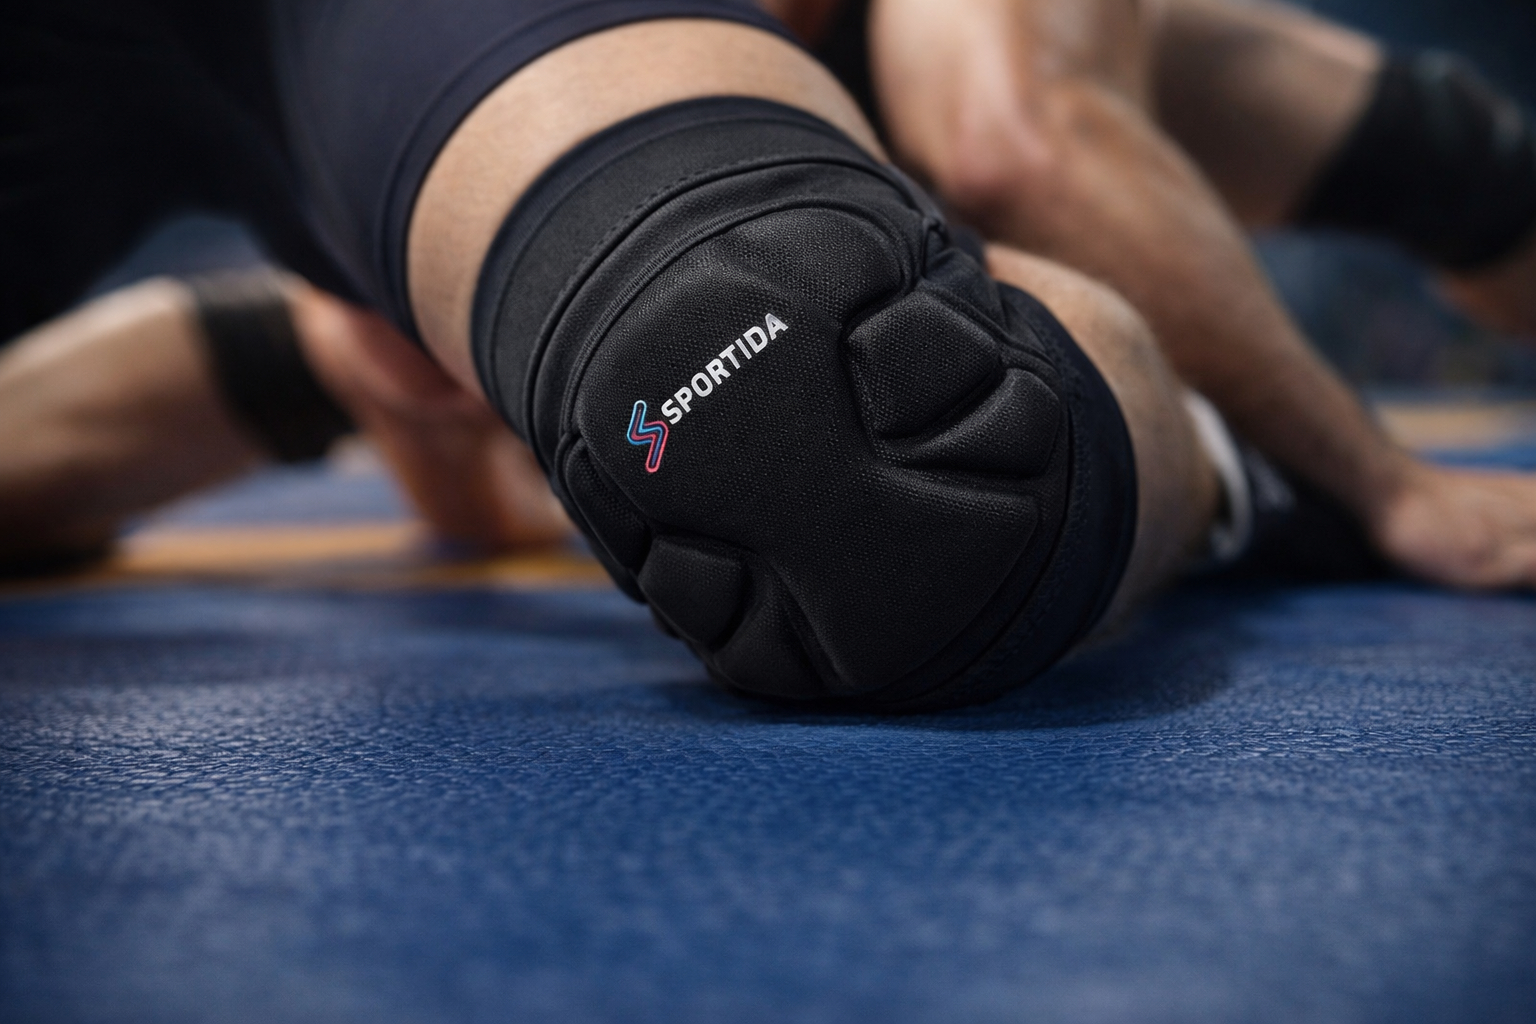
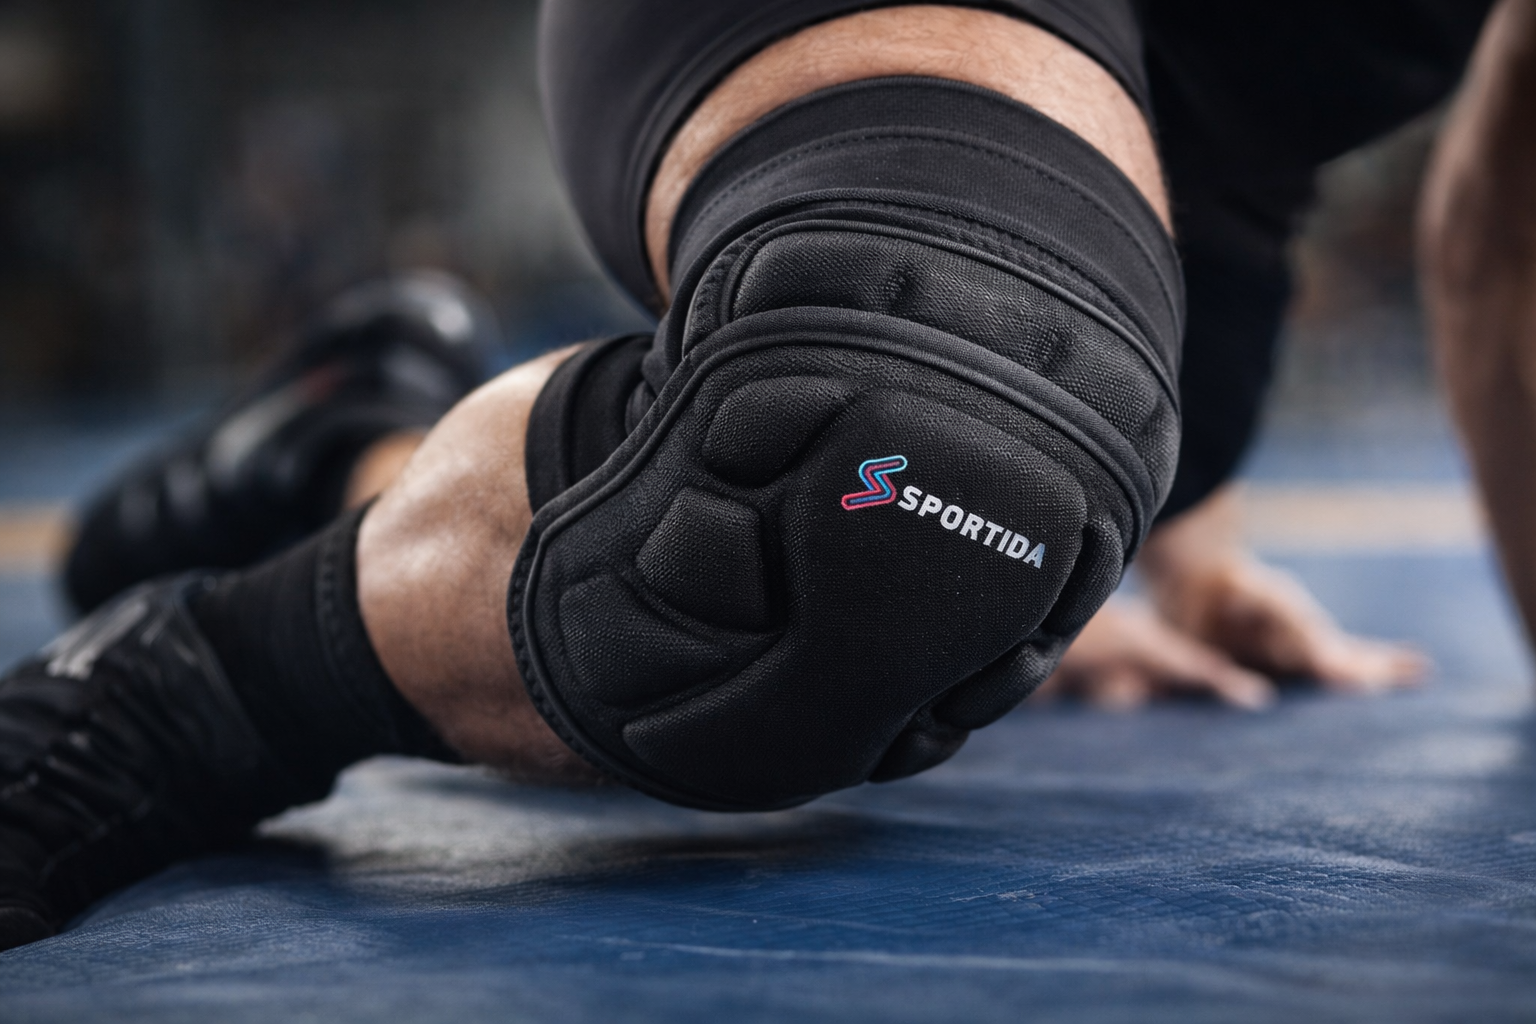
Add sliding sports article page and update related image

diff --git a/knee-pads-for-sliding-sports/index.html b/knee-pads-for-sliding-sports/index.html
@@ -1,0 +1,280 @@
+<!doctype html>
+<html lang="en-US">
+  <head>
+    <meta charset="UTF-8" />
+    <meta name="viewport" content="width=device-width, initial-scale=1.0" />
+    <meta name="geo.region" content="US" />
+    <meta name="geo.placename" content="United States" />
+    <meta name="language" content="English" />
+    <meta http-equiv="content-language" content="en-US" />
+    <title>Knee Pads for Sliding Sports | Skateboarding & Wrestling Protection | SPORTIDA</title>
+    <meta
+      name="description"
+      content="Sliding sports like skateboarding and wrestling expose the knees to repeated impact and friction. Learn why knee protection matters and how modern knee pads reduce injury risk."
+    />
+    <meta
+      name="keywords"
+      content="knee pads for sliding sports, skateboarding knee pads, wrestling knee pads, sliding sports knee protection, impact knee pads, Sportida S6764"
+    />
+    <link rel="icon" type="image/png" href="https://sportida.store/s6764/images/Logo-Sportida.co.png" />
+    <link rel="preconnect" href="https://fonts.googleapis.com" />
+    <link rel="preconnect" href="https://fonts.gstatic.com" crossorigin />
+    <link href="https://fonts.googleapis.com/css2?family=Montserrat:wght@400;500;600;700;800&display=swap" rel="stylesheet" />
+    <meta property="og:title" content="Knee Pads for Sliding Sports | Skateboarding & Wrestling Protection | SPORTIDA" />
+    <meta
+      property="og:description"
+      content="Sliding sports like skateboarding and wrestling expose the knees to repeated impact and friction. Learn why knee protection matters and how modern knee pads reduce injury risk."
+    />
+    <meta property="og:image" content="https://sportida.store/s6764/knee-pads-for-sliding-sports/images/skateboarder-sliding-knee-pad-impact-skatepark.png" />
+    <meta property="og:url" content="https://sportida.store/s6764/knee-pads-for-sliding-sports/" />
+    <meta property="og:type" content="article" />
+    <script async src="https://www.googletagmanager.com/gtag/js?id=G-SL5NGC9YRV"></script>
+    <script>
+      window.dataLayer = window.dataLayer || [];
+      function gtag() {
+        dataLayer.push(arguments);
+      }
+      gtag("js", new Date());
+      gtag("config", "G-SL5NGC9YRV");
+    </script>
+    <meta name="twitter:card" content="summary_large_image" />
+    <meta name="twitter:title" content="Knee Pads for Sliding Sports | Skateboarding & Wrestling Protection | SPORTIDA" />
+    <meta
+      name="twitter:description"
+      content="Sliding sports like skateboarding and wrestling expose the knees to repeated impact and friction. Learn why knee protection matters and how modern knee pads reduce injury risk."
+    />
+    <meta name="twitter:image" content="https://sportida.store/s6764/knee-pads-for-sliding-sports/images/skateboarder-sliding-knee-pad-impact-skatepark.png" />
+    <link rel="stylesheet" href="../best-knee-pads-for-goalkeepers/css/styles.css" />
+    <link rel="canonical" href="https://sportida.store/s6764/knee-pads-for-sliding-sports/" />
+    <link rel="alternate" hreflang="en-us" href="https://sportida.store/s6764/knee-pads-for-sliding-sports/" />
+    <link rel="alternate" hreflang="x-default" href="https://sportida.store/s6764/knee-pads-for-sliding-sports/" />
+    <script type="application/ld+json">
+      {
+        "@context": "https://schema.org",
+        "@type": "FAQPage",
+        "mainEntity": [
+          {
+            "@type": "Question",
+            "name": "Are knee pads necessary for skateboarding?",
+            "acceptedAnswer": {
+              "@type": "Answer",
+              "text": "Knee pads are strongly recommended for skateboarding because falls and slides on concrete can create direct impact and abrasion. Proper knee protection helps reduce injury risk and improves confidence during progression."
+            }
+          },
+          {
+            "@type": "Question",
+            "name": "Why do wrestlers wear knee pads?",
+            "acceptedAnswer": {
+              "@type": "Answer",
+              "text": "Wrestlers wear knee pads to reduce stress from repeated kneeling, shooting, and mat contact. They help protect the knee from friction and impact while preserving freedom of movement."
+            }
+          },
+          {
+            "@type": "Question",
+            "name": "What sports require knee protection?",
+            "acceptedAnswer": {
+              "@type": "Answer",
+              "text": "Sports with frequent sliding, contact, or hard-surface falls often require knee protection, including skateboarding, wrestling, grappling, volleyball, and goalkeeper training."
+            }
+          },
+          {
+            "@type": "Question",
+            "name": "Do knee pads prevent sliding injuries?",
+            "acceptedAnswer": {
+              "@type": "Answer",
+              "text": "Knee pads can significantly reduce the severity of sliding injuries by absorbing impact and lowering friction against the surface. They are an important part of preventive training gear."
+            }
+          },
+          {
+            "@type": "Question",
+            "name": "What type of knee pads are best for sliding sports?",
+            "acceptedAnswer": {
+              "@type": "Answer",
+              "text": "The best knee pads for sliding sports combine flexible segmented EVA padding, breathable compression support, and a secure fit that stays in place during rapid movement."
+            }
+          }
+        ]
+      }
+    </script>
+    <script type="application/ld+json">
+      {
+        "@context": "https://schema.org",
+        "@type": "Article",
+        "headline": "Knee Pads for Sliding Sports | Skateboarding, Wrestling & Impact Protection",
+        "description": "Sliding sports like skateboarding and wrestling expose the knees to repeated impact and friction. Learn why knee protection matters and how modern knee pads reduce injury risk.",
+        "image": "https://sportida.store/s6764/images/goalkeeper-diving-save-protection.png",
+        "author": {
+          "@type": "Organization",
+          "name": "SPORTIDA"
+        },
+        "publisher": {
+          "@type": "Organization",
+          "name": "SPORTIDA",
+          "logo": {
+            "@type": "ImageObject",
+            "url": "https://sportida.store/s6764/images/Logo-Sportida.co.png"
+          }
+        },
+        "mainEntityOfPage": {
+          "@type": "WebPage",
+          "@id": "https://sportida.store/s6764/knee-pads-for-sliding-sports/"
+        },
+        "datePublished": "2026-03-16",
+        "dateModified": "2026-03-16"
+      }
+    </script>
+    <style>
+      .content-image {
+        width: 100%;
+        height: auto;
+        border-radius: 16px;
+        display: block;
+      }
+    </style>
+  </head>
+  <body>
+    <header class="hero" role="banner" aria-label="Sliding Sports Knee Protection Hero Section">
+      <img
+        class="hero__bg"
+        src="images/skateboarder-sliding-knee-pad-impact-skatepark.png"
+        alt="skateboarder sliding on concrete wearing protective knee pads"
+        loading="eager"
+        fetchpriority="high"
+        width="1920"
+        height="1080"
+      />
+      <div class="hero__overlay"></div>
+      <div class="container hero__content">
+        <h1>Why Sliding Sports Require Proper Knee Protection</h1>
+        <p class="hero__subtitle">
+          Sliding sports like skateboarding, wrestling, and grappling expose the knees to constant friction and impact. Understanding how knee pads protect athletes can help prevent injuries and extend training sessions.
+        </p>
+        <a class="btn" href="https://sportida.store/s6764/" aria-label="View Sportida S6764 Knee Pads">View Sportida S6764 Knee Pads</a>
+      </div>
+    </header>
+
+    <main>
+      <section class="section section--intro" aria-labelledby="impact-risk-title">
+        <div class="container split-grid">
+          <figure class="media-card">
+            <img
+              src="images/knee-pad-ground-impact-protection-detail.png"
+              alt="knee pad absorbing impact during skateboard fall on concrete"
+              loading="lazy"
+              width="1200"
+              height="800"
+              class="content-image"
+            />
+          </figure>
+          <article class="content-card">
+            <h2 id="impact-risk-title">Hard Surfaces and Impact Risk</h2>
+            <p>
+              Sports like skateboarding, wrestling, and high-repetition training drills place the knees in direct contact with hard surfaces. Concrete parks, gym floors, and wrestling mats can all create repeated impact points that accumulate stress over time.
+            </p>
+            <p>
+              Even when a single impact seems minor, repeated contact across sessions can lead to joint soreness and reduced training quality. Reliable knee protection helps absorb force and supports consistent performance in high-contact practice.
+            </p>
+          </article>
+        </div>
+      </section>
+
+      <section class="section section--soft" aria-labelledby="friction-title">
+        <div class="container narrow">
+          <h2 id="friction-title">Sliding Friction and Skin Damage</h2>
+          <p>
+            Sliding movement is part of many disciplines, from skatepark transitions to wrestling scrambles. When knees travel across abrasive surfaces, friction can quickly irritate skin and produce abrasion patterns similar to turf-burn style contact injuries.
+          </p>
+          <p>
+            Repetitive sliding friction does not only affect skin comfort. It can also disrupt technique and confidence, especially during longer sessions. Proper knee pads create a protective layer that reduces direct surface friction and helps athletes stay focused.
+          </p>
+        </div>
+      </section>
+
+      <section class="section" aria-labelledby="mobility-protection-title">
+        <div class="container split-grid split-grid--reverse">
+          <article class="content-card">
+            <h2 id="mobility-protection-title">Mobility vs Protection in Modern Knee Pads</h2>
+            <p>
+              Effective knee protection is not just about adding thick padding. Modern knee pads are designed to protect without limiting movement, so athletes can pivot, shoot, slide, and recover naturally.
+            </p>
+            <p>
+              Compression sleeve construction and ergonomic shaping help keep pads stable during dynamic motion while maintaining comfort. This balance is essential for sports where speed, control, and flexibility matter in every repetition.
+            </p>
+          </article>
+          <figure class="media-card">
+            <img
+              src="images/wrestling-grappling-knee-pad-protection.png"
+              alt="wrestlers training with knee pads during grappling practice"
+              loading="lazy"
+              width="1200"
+              height="800"
+              class="content-image"
+            />
+          </figure>
+        </div>
+      </section>
+
+      <section class="section section--soft" aria-labelledby="segmented-eva-title">
+        <div class="container split-grid">
+          <figure class="media-card">
+            <img
+              src="images/wrestling-knee-pad-impact-protection.png"
+              alt="wrestling knee pad contacting mat surface close up"
+              loading="lazy"
+              width="1200"
+              height="800"
+              class="content-image"
+            />
+          </figure>
+          <article class="content-card">
+            <h2 id="segmented-eva-title">Why Segmented Knee Pad Design Matters</h2>
+            <p>
+              Segmented EVA foam technology improves how knee protection responds to real movement. Multiple protective zones flex with the knee, making it easier to maintain natural mechanics during sliding and impact-heavy drills.
+            </p>
+            <p>
+              This construction supports shock absorption, ergonomic movement, and reduced bulk compared with rigid padding blocks. The <strong>Sportida S6764</strong> is a strong example of this approach, combining flexibility and protection for sliding sports.
+            </p>
+          </article>
+        </div>
+      </section>
+
+      <section class="section" aria-labelledby="faq-title">
+        <div class="container narrow">
+          <h2 id="faq-title">Frequently Asked Questions</h2>
+          <details class="faq-item">
+            <summary>Are knee pads necessary for skateboarding?</summary>
+            <p>Knee pads are strongly recommended for skateboarding because falls and slides on concrete can create direct impact and abrasion. Proper protection helps reduce injury risk and supports safer progression.</p>
+          </details>
+          <details class="faq-item">
+            <summary>Why do wrestlers wear knee pads?</summary>
+            <p>Wrestlers wear knee pads to reduce stress from repeated mat contact, kneeling, and explosive transitions. Knee pads help protect against friction while supporting mobility during training and competition.</p>
+          </details>
+          <details class="faq-item">
+            <summary>What sports require knee protection?</summary>
+            <p>Sports with frequent sliding, surface contact, or falls often require knee protection, including skateboarding, wrestling, grappling, volleyball, and goalkeeper training on turf or hard courts.</p>
+          </details>
+          <details class="faq-item">
+            <summary>Do knee pads prevent sliding injuries?</summary>
+            <p>Knee pads can reduce sliding injury severity by lowering friction and absorbing impact during contact. While no gear eliminates all risk, quality pads are a key protective layer for repeated training.</p>
+          </details>
+          <details class="faq-item">
+            <summary>What type of knee pads are best for sliding sports?</summary>
+            <p>The best options use segmented EVA padding, breathable compression fabric, and an ergonomic fit that stays secure. This combination helps deliver impact protection without restricting movement.</p>
+          </details>
+        </div>
+      </section>
+
+      <section class="section section--compact" aria-labelledby="cta-title">
+        <div class="container narrow">
+          <aside class="callout-box">
+            <h2 id="cta-title">Protection Built for Real Training</h2>
+            <p>
+              The Sportida S6764 knee pads are engineered to protect athletes during high-friction sliding sports and repeated surface contact while maintaining flexibility and comfort.
+            </p>
+            <a class="btn" href="https://sportida.store/s6764/" aria-label="View Sportida S6764 Knee Pads">View Sportida S6764 Knee Pads</a>
+          </aside>
+        </div>
+      </section>
+    </main>
+  </body>
+</html>
